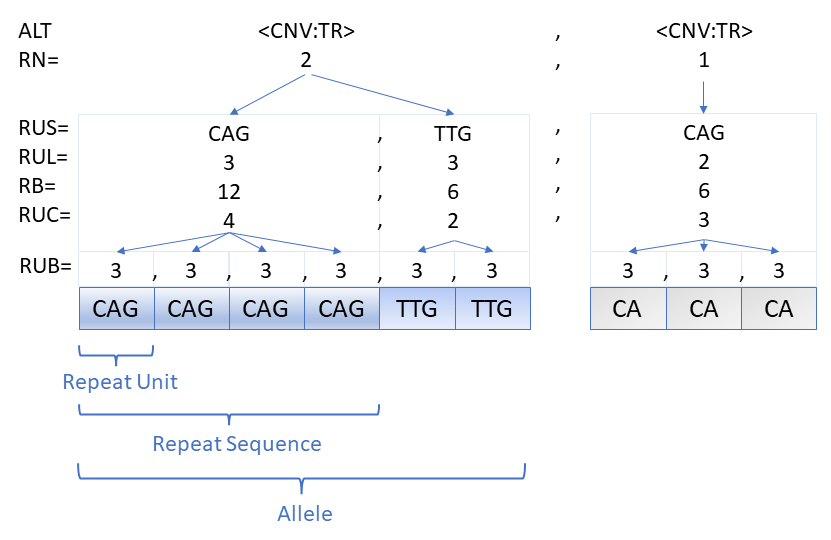
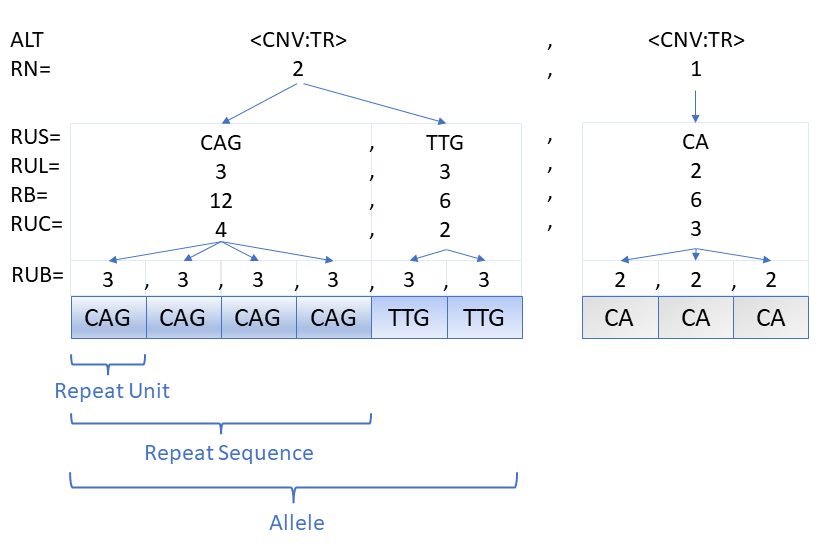
Corrected second allele in tandem repeat figure example Added SVLEN header to tandem repeat example

diff --git a/VCFv4.4.draft.tex b/VCFv4.4.draft.tex
@@ -1713,7 +1713,7 @@ When the exact sequence is not known, or when reporting tandem repeat 'summary' 
 The allele sequence of a $<$CNV:TR$>$ record consists of the one or more repeat sequences each of which consist of a single repeat unit repeated one or more times.
 That is, $<$CNV:TR$>$ records can encode multiple different repeat motifs in a single allele but do not support "nested" repeats.
 
-Figure 11 outlines the field encoding for a STR locus with alleles of sequence $CAGCAGCAGTTGTTG$ ($(CAG)_{4}(TTG)_{2}$), and $CACACA$ ($(CA)_{2}$).
+Figure 11 outlines the field encoding for a STR locus with alleles of sequence $CAGCAGCAGTTGTTG$ ($(CAG)_{4}(TTG)_{2}$), and $CACACA$ ($(CA)_{3}$).
 $RN=2,1$ indicates that the first allele has two repeat sequences and the second allele one.
 RUS, RUL, and RUC fields encode the repeat unit sequence, length, and count within each repeat sequence.
 RB encodes the length of each repeat sequence.
@@ -1736,6 +1736,7 @@ In the following example, the reference genome contains a $(CAG)_{10}$ repeat at
 \begin{verbatim}
 ##fileformat=VCFv4.4
 ##INFO=<ID=END,Number=1,Type=Integer,Description="End position of the longest variant described in this record">
+##INFO=<ID=SVLEN,Number=A,Type=Integer,Description="Length of structural variant">
 ##INFO=<ID=CN,Number=A,Type=Float,Description="Copy number of allele">
 ##INFO=<ID=RN,Number=A,Type=Integer,Description="Total number of repeat sequences in this allele.">
 ##INFO=<ID=RUS,Number=.,Type=String,Description="Repeat unit sequence of the corresponding repeat sequence">
@@ -1761,6 +1762,8 @@ chr1 130 precise_alt1 G GCAGCAGCAGCAGCAGCAGCAGCAGCAGCAGCAGCAGCAGCAGCAGCAGCAGCAGC
 Note the following:
 \begin{itemize}
     \item As with all symbolic structural variant alleles, the POS of the $<$CNV:TR$>$ record is the base immediately preceding the tandem repeat
+    \item The SVLEN of the $<$CNV:TR$>$ is the length of the reference allele.
+    It is not the length of the $<$CNV:TR$>$ allele.
     \item The SVLEN of the $<$CNV:TR$>$ allele of a novel (with respect to the reference) tandem repeat should be 1.
     \item The POS of the $<$CNV:TR$>$ allele of a novel (with respect to the reference) tandem repeat should be the base immediately preceding the inserted tandem repeat sequence.
     \item Both a $<$CNV:TR$>$ and one or more non-symoblic records encoding the tandem repeat can be present.
